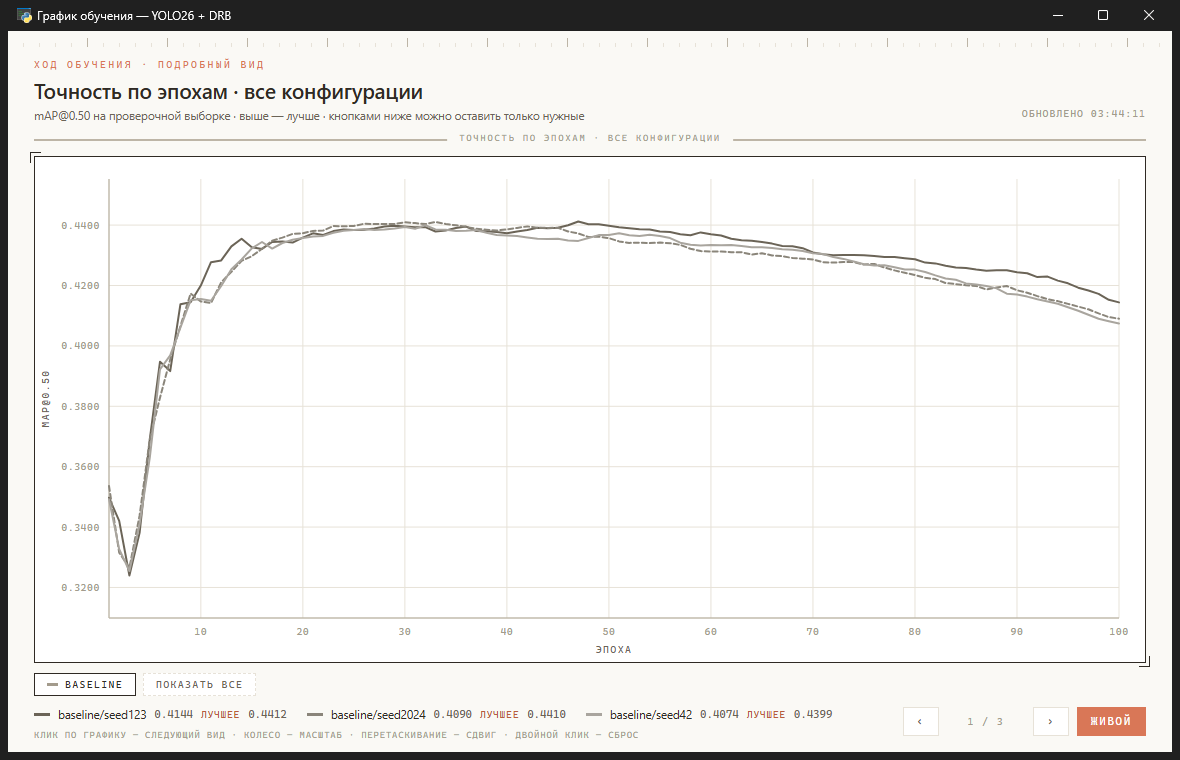
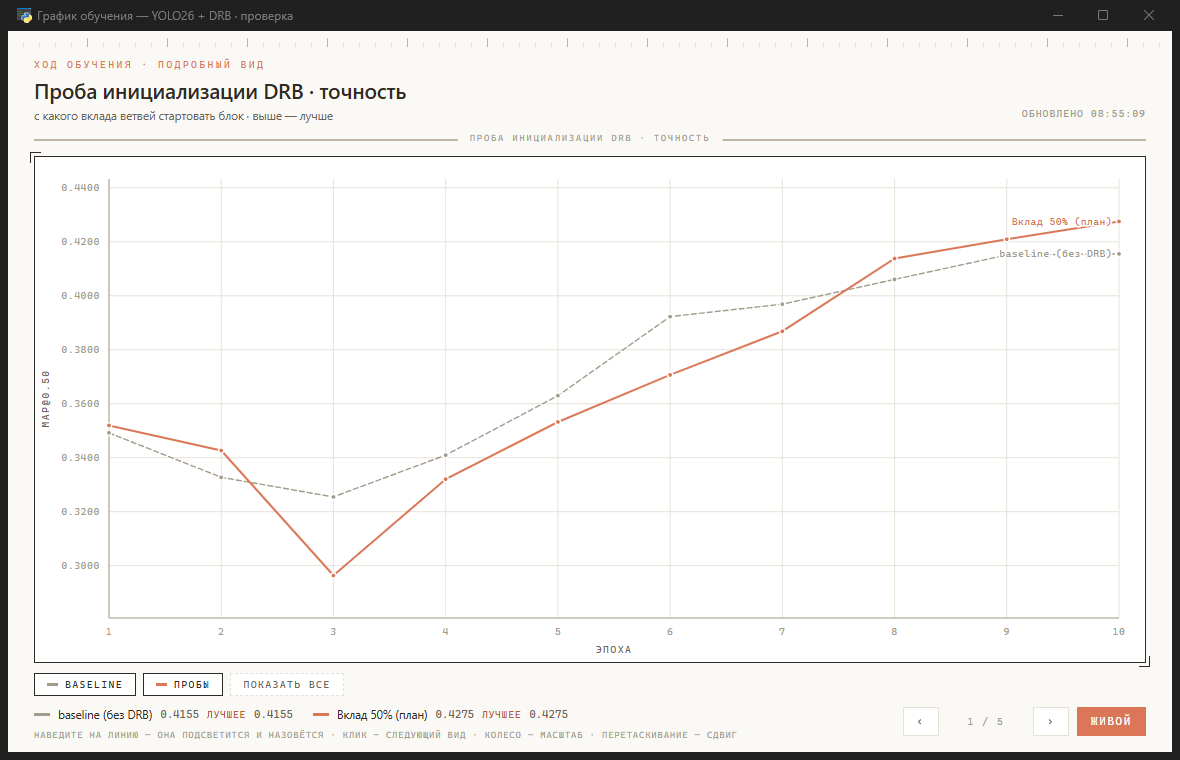
feat: линия на графике называет себя под курсором
Отзыв: непонятно, чья полоса — baseline или другое, а смотреть в легенду
внизу неудобно.

- У правого конца каждой линии стоит её имя цветом линии, с белой
  обводкой поверх сетки. Совпадающие по высоте подписи разводятся.
  Имя видно всегда, без наведения.
- Наведение подсвечивает ближайшую линию: она утолщается, остальные
  гаснут до четверти яркости, её строка в подсказке идёт первой и
  выделена. Ближайшая ищется по вертикали от курсора до значения линии
  в этой эпохе.
- Подсказка теперь всплывает у курсора, а не в углу.

Ловушка при проверке: служебное окно снимается поиском по заголовку, а
у пользователя уже было открыто окно графика с тем же именем — снимался
он, и правки казались не применившимися. У проверочного окна теперь свой
заголовок.

diff --git a/ui/chart.html b/ui/chart.html
@@ -63,6 +63,8 @@ h1{font-size:21px; font-weight:600; letter-spacing:-0.01em;}
 #plot .ln{fill:none; stroke-linejoin:round; stroke-linecap:round;}
 #plot .cursor{stroke:var(--accent); stroke-width:1; stroke-dasharray:3 3;}
 #plot .dot{stroke:var(--surface); stroke-width:1.5;}
+#plot .endlab{font-family:var(--mono); font-size:10px; letter-spacing:.04em;
+  paint-order:stroke; stroke:var(--surface); stroke-width:3px; stroke-linejoin:round;}
 #plot .empty{font-family:var(--mono); font-size:12px; fill:var(--cap); letter-spacing:.14em;}
 
 /* подсказка по точке */
@@ -74,6 +76,9 @@ h1{font-size:21px; font-weight:600; letter-spacing:-0.01em;}
 #tip .row{display:flex; align-items:center; gap:7px; justify-content:space-between;}
 #tip i{width:10px; height:2.5px; flex:none;}
 #tip b{font-weight:500;}
+#tip .row{opacity:.55;}
+#tip .row.hot{opacity:1;}
+#tip .row.hot b{color:var(--accent-deep);}
 
 /* переключатели конфигураций */
 #filters{display:flex; flex-wrap:wrap; gap:7px; padding-top:10px; align-items:center;}
@@ -130,7 +135,7 @@ footer{display:flex; align-items:flex-start; justify-content:space-between;
   <footer>
     <div>
       <div id="legend"></div>
-      <div id="hint">клик по графику — следующий вид · колесо — масштаб · перетаскивание — сдвиг · двойной клик — сброс</div>
+      <div id="hint">наведите на линию — она подсветится и назовётся · клик — следующий вид · колесо — масштаб · перетаскивание — сдвиг</div>
     </div>
     <div id="nav">
       <button class="nbtn" id="prev">‹</button>
@@ -145,7 +150,7 @@ footer{display:flex; align-items:flex-start; justify-content:space-between;
 'use strict';
 const $ = id => document.getElementById(id);
 const S = {views: [], idx: 0, x0: null, x1: null, live: true, hover: null,
-           drag: null, groups: [], off: new Set()};
+           hoverY: null, drag: null, groups: [], off: new Set()};
 
 /* линии выключенных семейств не рисуются: так можно оставить только
    baseline и DRB и сравнить их без визуального шума */
@@ -266,45 +271,84 @@ function draw() {
     v.norm ? 'нормировано к своему размаху' : (v.ylabel || ''));
   svg.appendChild(yl);
 
+  // Какая линия под курсором: считаем расстояние по вертикали до значения
+  // линии в этой же эпохе. Ближайшая подсвечивается и подписывается прямо
+  // у курсора — иначе цвет приходится сопоставлять с легендой внизу.
+  let hot = -1;
+  const atEpoch = [];
+  if (S.hover !== null) {
+    const xv = x0 + (x1 - x0) * (S.hover - px0) / (px1 - px0);
+    let bestD = 1e9;
+    vis.forEach((s, k) => {
+      let pt = null, bd = 1e9;
+      for (const p of s.pts) { const dd = Math.abs(p[0] - xv); if (dd < bd) { bd = dd; pt = p; } }
+      atEpoch[k] = (pt && bd <= Math.max(1, (x1 - x0) / 30)) ? pt : null;
+      if (atEpoch[k] && S.hoverY !== null) {
+        const dy = Math.abs(Y(atEpoch[k][1]) - S.hoverY);
+        if (dy < bestD) { bestD = dy; hot = k; }
+      }
+    });
+    if (bestD > 34) hot = -1;             // курсор далеко от всех линий
+  }
+
   // линии
-  for (const s of vis) {
-    if (s.pts.length < 1) continue;
+  vis.forEach((s, k) => {
+    if (s.pts.length < 1) return;
+    const dim = hot >= 0 && k !== hot;
     const d = s.pts.map((p, i) => (i ? 'L' : 'M') + X(p[0]).toFixed(1) + ' ' + Y(p[1]).toFixed(1)).join(' ');
     svg.appendChild(el('path', {d, class: 'ln', stroke: s.color,
-      'stroke-width': s.width || 2,
+      'stroke-width': (s.width || 2) + (k === hot ? 1.6 : 0),
+      'stroke-opacity': dim ? 0.25 : 1,
       'stroke-dasharray': s.dash ? '5 3' : ''}));
-    // точки, когда их немного — видно каждую эпоху
     if (s.pts.length <= 40)
       for (const p of s.pts)
         svg.appendChild(el('circle', {cx: X(p[0]), cy: Y(p[1]), r: 2.6,
-          fill: s.color, class: 'dot'}));
+          fill: s.color, class: 'dot', opacity: dim ? 0.25 : 1}));
+  });
+
+  // Подписи у правых концов линий: имя видно всегда, без наведения и без
+  // похода глазами в легенду. При совпадении высот метки разводятся.
+  const ends = vis.map((s, k) => s.pts.length
+    ? {k, name: s.name, color: s.color, x: X(s.pts[s.pts.length - 1][0]),
+       y: Y(s.pts[s.pts.length - 1][1])} : null).filter(Boolean);
+  ends.sort((a, b) => a.y - b.y);
+  for (let i = 1; i < ends.length; i++)
+    if (ends[i].y - ends[i - 1].y < 12) ends[i].y = ends[i - 1].y + 12;
+  for (const e of ends) {
+    const right = e.x + 8 + e.name.length * 5.4 < px1;
+    svg.appendChild(el('text', {
+      x: right ? e.x + 7 : e.x - 7, y: Math.min(Math.max(e.y + 3.5, py0 + 8), py1 - 4),
+      class: 'endlab', fill: e.color, 'text-anchor': right ? 'start' : 'end',
+      opacity: hot >= 0 && e.k !== hot ? 0.3 : 1}, e.name));
   }
 
-  // курсор и подсказка
+  // курсор, точки на эпохе и подсказка
   if (S.hover !== null) {
     const xv = x0 + (x1 - x0) * (S.hover - px0) / (px1 - px0);
     const near = Math.round(xv);
     const rows = [];
-    for (const s of vis) {
-      let best = null, bd = 1e9;
-      for (const p of s.pts) { const dd = Math.abs(p[0] - near); if (dd < bd) { bd = dd; best = p; } }
-      if (best && bd <= Math.max(1, (x1 - x0) / 40)) {
-        rows.push({name: s.name, color: s.color, y: best[2]});
-        svg.appendChild(el('circle', {cx: X(best[0]), cy: Y(best[1]), r: 4.2,
-          fill: s.color, class: 'dot'}));
-      }
-    }
+    vis.forEach((s, k) => {
+      const pt = atEpoch[k];
+      if (!pt) return;
+      rows.push({name: s.name, color: s.color, y: pt[2], hot: k === hot});
+      svg.appendChild(el('circle', {cx: X(pt[0]), cy: Y(pt[1]),
+        r: k === hot ? 5.4 : 4.2, fill: s.color, class: 'dot',
+        opacity: hot >= 0 && k !== hot ? 0.3 : 1}));
+    });
     if (rows.length) {
       svg.appendChild(el('line', {x1: X(near), y1: py0, x2: X(near), y2: py1, class: 'cursor'}));
       const tip = $('tip');
+      // подсвеченная линия — первой и выделена, чтобы не искать глазами
+      rows.sort((a, b) => (b.hot ? 1 : 0) - (a.hot ? 1 : 0));
       tip.innerHTML = '<div class="th">эпоха ' + near + '</div>'
-        + rows.map(r => '<div class="row"><span><i style="background:' + r.color
-          + '"></i>' + r.name + '</span><b>' + fmt(r.y) + '</b></div>').join('');
+        + rows.map(r => '<div class="row' + (r.hot ? ' hot' : '') + '"><span><i style="background:'
+          + r.color + '"></i>' + r.name + '</span><b>' + fmt(r.y) + '</b></div>').join('');
       tip.style.display = 'block';
       const bx = $('plotbox').getBoundingClientRect();
       const tw = tip.offsetWidth, left = X(near) + 14;
       tip.style.left = (left + tw > bx.width - 8 ? X(near) - tw - 14 : left) + 'px';
-      tip.style.top = Math.min(py0 + 8, py1 - tip.offsetHeight - 8) + 'px';
+      const ty = (S.hoverY !== null ? S.hoverY - tip.offsetHeight - 14 : py0 + 8);
+      tip.style.top = Math.min(Math.max(ty, py0 + 6), py1 - tip.offsetHeight - 6) + 'px';
     } else { $('tip').style.display = 'none'; }
   } else { $('tip').style.display = 'none'; }
 
@@ -374,9 +418,9 @@ plot.addEventListener('mousemove', e => {
     S.x0 = S.drag.x0 - dx; S.x1 = S.drag.x1 - dx;
     S.dragged = true; draw(); return;
   }
-  S.hover = e.clientX - r.left; draw();
+  S.hover = e.clientX - r.left; S.hoverY = e.clientY - r.top; draw();
 });
-plot.addEventListener('mouseleave', () => { S.hover = null; S.drag = null; draw(); });
+plot.addEventListener('mouseleave', () => { S.hover = null; S.hoverY = null; S.drag = null; draw(); });
 plot.addEventListener('mousedown', e => {
   S.drag = {px: e.clientX, x0: S.x0, x1: S.x1}; S.dragged = false;
 });

diff --git a/scripts/chart_window.py b/scripts/chart_window.py
@@ -254,9 +254,13 @@ def main() -> int:
             return 'window.native' not in record.getMessage()
     logging.getLogger('pywebview').addFilter(_Quiet())
 
+    # У служебного окна ОТДЕЛЬНЫЙ заголовок: иначе поиск окна по имени
+    # находит уже открытое пользователем окно графика и снимает его — то
+    # есть показывает старую страницу вместо проверяемой.
+    title = TITLE + ' · проверка' if args.selftest else TITLE
     api = ChartApi()
     win = webview.create_window(
-        TITLE, html=HTML.read_text(encoding='utf-8'), js_api=api,
+        title, html=HTML.read_text(encoding='utf-8'), js_api=api,
         width=1180, height=760, min_size=(760, 520))
 
     if args.selftest:
@@ -268,7 +272,7 @@ def main() -> int:
             time.sleep(7)
             try:
                 mod._capture_window_by_title(
-                    TITLE, PROJECT_ROOT / 'ui' / 'chart_screenshot.png')
+                    title, PROJECT_ROOT / 'ui' / 'chart_screenshot.png')
                 print('CHART SELFTEST OK: снимок сохранён')
             finally:
                 win.destroy()
